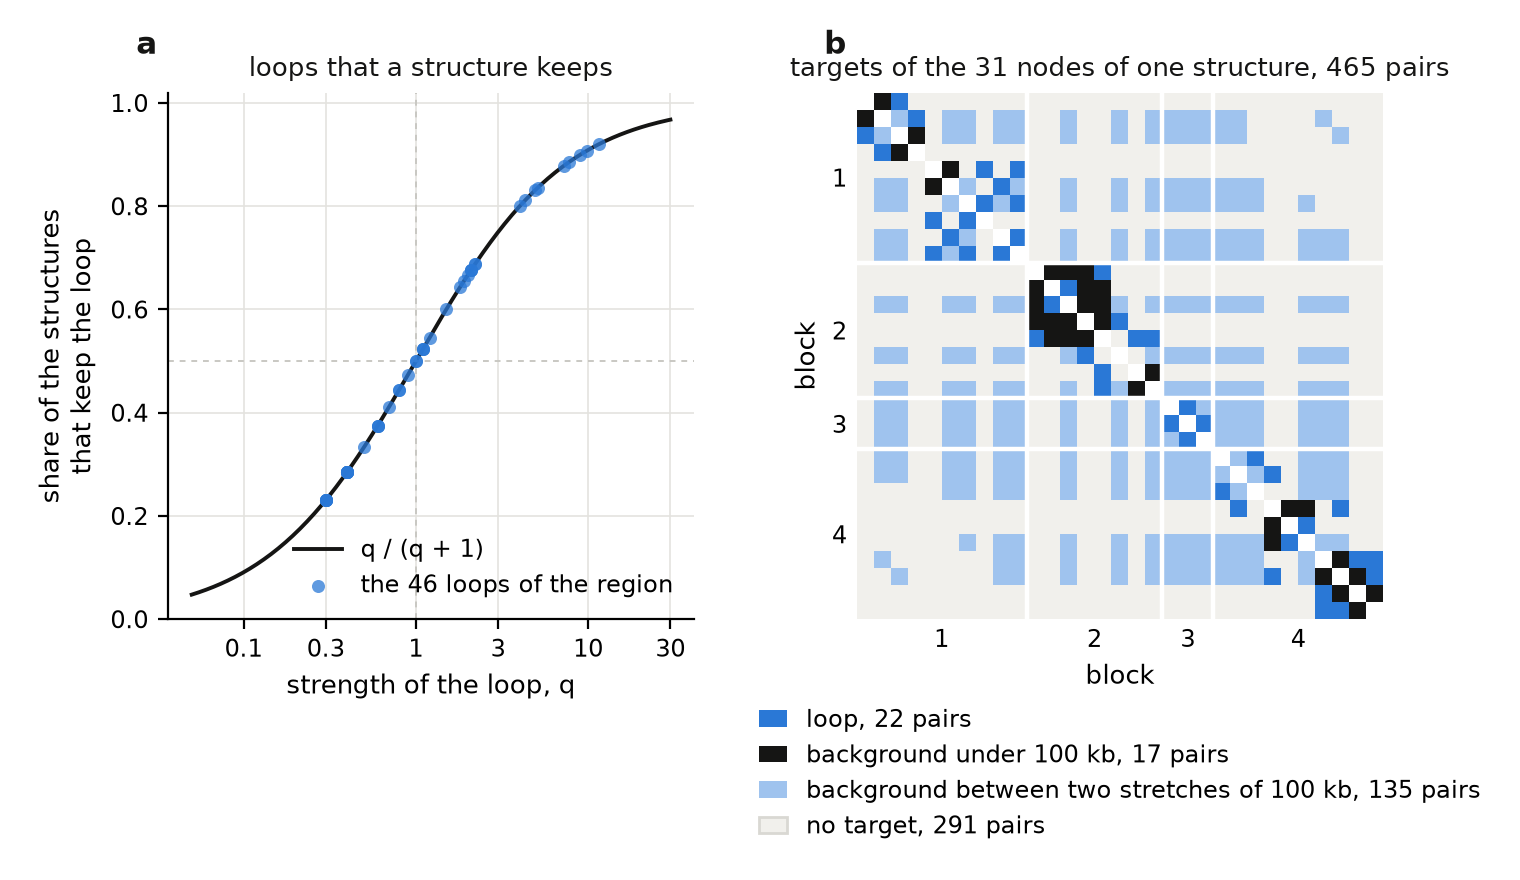
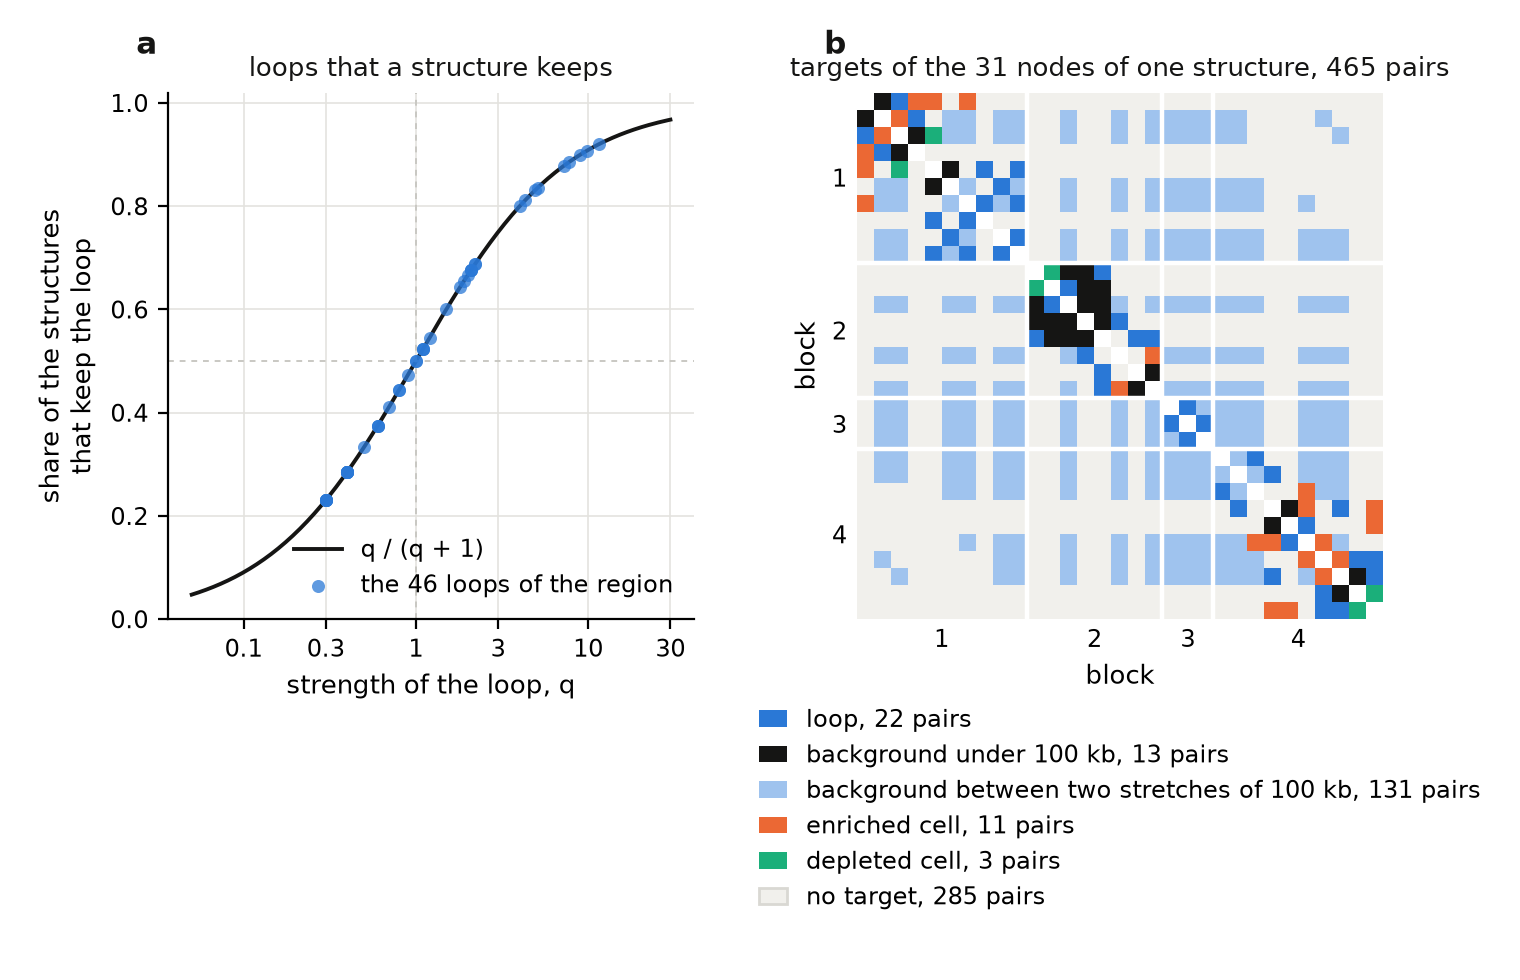
web: the example of the node targets on the Method page reads the deep Hi-C map
The tables of figure 8b were built with the map of the laptop, 7.8 million contacts,
on which no cell of the region passes the test, and the page said the example has no
such cell. With the deep 4DN map of GM12878, cut to the region, the cells hold 14 of
the 465 pairs of nodes, 11 closer and 3 further apart. The figure shows them and the
page states the counts.

render_method.py uniform-tables takes the map of the contact cells as an argument.
The cut of the map is data/_hic_method/GM12878_method_region.mcool, outside git, made
from 4DNFIXP4QG5B at 5 kb for chr1 236.0 to 242.2 Mb with the weights of the map.

Frontend: tests, eslint, tsc and the build pass.

diff --git a/web/frontend/src/pages/Method.tsx b/web/frontend/src/pages/Method.tsx
@@ -356,7 +356,7 @@ export function Method() {
             <div className="equations">
               <Equation name="cell_target" />
             </div>
-            <P>{`The two nodes of an enriched cell get a target under the background distance and those of a depleted cell a target over it. The half contact added to both counts keeps the ratio finite for a cell without contacts. The target is no shorter than one bead and no longer than 2.5 times the background distance. The background spring holds the pair at it. Such cells are rare and the example of figure ${F.nodes}b has none.`}</P>
+            <P>{`The two nodes of an enriched cell get a target under the background distance and those of a depleted cell a target over it. The half contact added to both counts keeps the ratio finite for a cell without contacts. The target is no shorter than one bead and no longer than 2.5 times the background distance. The background spring holds the pair at it. In the example of figure ${F.nodes}b the cells hold 14 of the 465 pairs of nodes, 11 of them closer and 3 further apart.`}</P>
             <P>{"The cells are read with the Hi-C background of the cell type. A job with structural variants, with your own contacts, with a predicted background or with no background has no cells."}</P>
 
             <h4>Stretches of 100 kb</h4>
@@ -365,7 +365,7 @@ export function Method() {
               <Equation name="stretch_pairs" />
             </div>
             <P>{"Here a and b are the places of the two nodes in the row of these nodes along the chromosome and s_ab is their genomic separation. Every pair up to 5 Mb apart is held. Beyond 5 Mb a node is paired with the nodes a power of two places away and three times a power of two places away, two for each doubling of the separation. The number of springs of a node then grows with the logarithm of the length of the chromosome, while a number that grew with the length itself would outweigh the excluded volume on a whole chromosome."}</P>
-            <Figure n={String(F.nodes)} src={methodUniformNodes} alt="Left, the share of the structures that keep a loop against the strength of the loop, a curve from 0.05 at a strength of 0.05 to 0.97 at 30 with the 46 loops of the example region as points on it. Right, a matrix of the pairs of the 31 nodes of one structure of the region coloured by the kind of target, with loops and background pairs under 100 kb near the diagonal and the background between two stretches of 100 kb across the blocks">
+            <Figure n={String(F.nodes)} src={methodUniformNodes} alt="Left, the share of the structures that keep a loop against the strength of the loop, a curve from 0.05 at a strength of 0.05 to 0.97 at 30 with the 46 loops of the example region as points on it. Right, a matrix of the pairs of the 31 nodes of one structure of the region coloured by the kind of target, with loops, background pairs under 100 kb and the pairs of enriched and depleted cells near the diagonal and the background between two stretches of 100 kb across the blocks">
               {`An example of the loops and the targets of one structure, the region of figure 1. a, the 46 loops of the region. Each point is a loop at its strength q and the line is the share of the structures that keep it. The dashed lines mark a loop of typical strength, which is in half of the structures. b, the targets of the 31 nodes of one structure. Every pair of nodes is coloured by its target. The pairs of two stretches of 100 kb reach across the blocks, where the chain of loop anchors has no target in figure ${F.terms}a.`}
             </Figure>
           </>

diff --git a/web/design/render_method.py b/web/design/render_method.py
@@ -3,7 +3,7 @@ r"""Renders the figures of section 2 of the Method page, blocks and target dista
     python web/design/render_method.py tables data playground/derived/ps_curve.csv web/design/method_data
     python web/design/render_method.py figures web/design/method_data web/design/images
 
-    python web/design/render_method.py uniform-tables data web/design/method_data
+    python web/design/render_method.py uniform-tables data web/design/method_data [CONTACT_MAP]
 
 `tables` reads the GM12878 inputs of production and the contact probability table of three cell
 lines from `playground/ps_curve.py`. It writes the small tables the figures plot. `figures`
@@ -176,9 +176,10 @@ OVERLAP = (1, [7, 8])
 FLANK = 4_000
 
 
-def uniform_tables(data_root: str, out: Path) -> None:
-    """Writes the tables of section 5 as a job on the region with the chain of one bead per
-    kilobase builds them."""
+def uniform_tables(data_root: str, out: Path, contact_map: str = "") -> None:
+    """Writes the tables of the chain of one bead per kilobase as a job on the region builds them.
+    `contact_map` is the map of the contact cells, the deep map of the cell line or its cut to the
+    region. Without it the job reads the largest map under `data_root`."""
     import gnome3d.skeleton as skeleton
     from gnome3d.data import ContactData
     from gnome3d.hierarchy import Level
@@ -194,6 +195,8 @@ def uniform_tables(data_root: str, out: Path) -> None:
     region = parse_region(f"{CHROM}:{REGION[0]}-{REGION[1]}")
     plain = settings_for_cell(CELL, root)
     s = settings_for_cell(CELL, root, uniform=True)
+    if contact_map:
+        s.data_contact_map = f"{Path(contact_map).resolve()}::/resolutions/5000"
     data = ContactData.from_files(s, [CHROM], region)
     state = cb.build_state(s, data, [CHROM], region)
     cl = state.clusters
@@ -772,7 +775,7 @@ def uniform_nodes(tab: Path, out: Path) -> None:
     nodes = pd.read_csv(tab / "uniform_nodes.csv")
     n_of = json.loads((tab / "fits.json").read_text())["uniform_pairs"]
     n = len(nodes)
-    fig, (left, right) = plt.subplots(1, 2, figsize=(WIDTH, 4.4), gridspec_kw={"width_ratios": [1.0, 1.0]})
+    fig, (left, right) = plt.subplots(1, 2, figsize=(WIDTH, 4.9), gridspec_kw={"width_ratios": [1.0, 1.0]})
 
     q = np.geomspace(0.05, 30, 200)
     left.plot(q, q / (q + 1), color=INK, lw=1.4, label="q / (q + 1)")
@@ -834,7 +837,7 @@ def main() -> None:
         tables(sys.argv[2], sys.argv[3], Path(sys.argv[4]))
         return
     if sys.argv[1] == "uniform-tables":
-        uniform_tables(sys.argv[2], Path(sys.argv[3]))
+        uniform_tables(sys.argv[2], Path(sys.argv[3]), sys.argv[4] if len(sys.argv) > 4 else "")
         return
     tab, out = Path(sys.argv[2]), Path(sys.argv[3])
     out.mkdir(parents=True, exist_ok=True)
